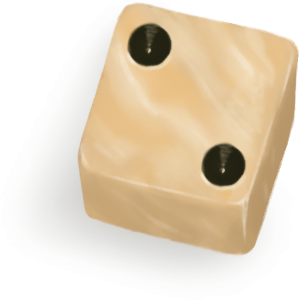
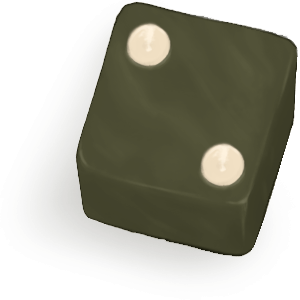
added comments to JS and added dice images for player 2

diff --git a/bg.js b/bg.js
@@ -1,4 +1,6 @@
+//The array that stores all checker positions:
 let board = [];
+//Used as a copy of the board so moves can be un-done:
 let newBoard = [];
 let score = [];
 let roll = {
@@ -21,6 +23,7 @@ window.onload = () => {
 	document.querySelector("#start").addEventListener("click", startGame);
 }
 
+//Sets up the board with checkers in the proper staring positions:
 initBoard = () => {
 	let tempBoard = [];
 
@@ -44,6 +47,7 @@ initBoard = () => {
 	return tempBoard;
 }
 
+//Sets up the event handler methods that make click and drag work:
 setupDragging = () => {
 	document.onmousemove = (e) => {
 		e.preventDefault();
@@ -177,6 +181,7 @@ setupDragging = () => {
 	}
 }
 
+//Renders the checkers to their respective points based on the board array:
 renderCheckers = (layout) => {
 	doMousedown = (e) => {
 		e.preventDefault();
@@ -263,6 +268,7 @@ renderCheckers = (layout) => {
 	}
 }
 
+//Removes the start button, intializes the board and renders the checkers, also sets turn to player 1 and resets the cube:
 startGame = () => {
 	let nav = document.querySelector("#buttonArea");
 	nav.removeChild(document.querySelector("#start"));
@@ -274,6 +280,7 @@ startGame = () => {
 	newTurn();
 }
 
+//Figures out who won and if its a gammon/backgammon, then changes scores accordingly:
 endGame = (player, pass) => {
 	if(!pass) {
 		if(player == 1) {
@@ -334,8 +341,10 @@ endGame = (player, pass) => {
 	startBut.addEventListener("click", startGame);
 }
 
+//Returns the number of the player opposite to the parameter:
 otherPlayer = (player) => player == 1 ? 2 : 1; 
 
+//Changes the turn variable and the buttons with event listeners accordingly:
 newTurn = () => {
 	turn == 1 ? turn = 2 : turn = 1;
 
@@ -358,6 +367,7 @@ newTurn = () => {
 	dubBut.addEventListener("click", proposeDouble);
 }
 
+//Renders take/pass buttons and assigns event listeners:
 proposeDouble = () => {
 	let other = (turn == 1) ? 2 : 1;
 	let curPlayer = document.querySelector(".currentPlayer");
@@ -385,6 +395,7 @@ proposeDouble = () => {
 	passBut.addEventListener("click", passDouble);
 }
 
+//Doubles the stakes variable, removes take/pass buttons and adds roll button with event listener:
 doubleStakes = () => {
 	let curPlayer = document.querySelector(".currentPlayer");
 	curPlayer.classList.remove("currentPlayer");
@@ -393,7 +404,6 @@ doubleStakes = () => {
 
 	let nav = document.querySelector("#buttonArea");
 	let rollBut = document.createElement("button");
-	let dubBut = document.createElement("button");
 
 	stakes *= 2;
 	while (nav.firstChild) {
@@ -406,6 +416,7 @@ doubleStakes = () => {
 	rollBut.addEventListener("click", rollDice);
 }
 
+//Removes all buttons and calls endGame:
 passDouble = () => {
 	let nav = document.querySelector("#buttonArea");
 	while (nav.firstChild) {
@@ -415,6 +426,7 @@ passDouble = () => {
 	endGame(turn, true);
 }
 
+//Adds finish turn button and, if a move was made, the undo button:
 endMove = (move) => {
 	allowDrag = false;
 	let nav = document.querySelector("#buttonArea");
@@ -440,6 +452,7 @@ endMove = (move) => {
 	finishBut.addEventListener("click", finishTurn);
 }
 
+//Updates the board with the moves taken, updates buttons:
 finishTurn = () => {
 	let nav = document.querySelector("#buttonArea");
 	let curPlayer = document.querySelector("#player" + turn);
@@ -455,6 +468,7 @@ finishTurn = () => {
 	newTurn();
 }
 
+//Resets the board to it's old state and then calls renderCheckers, removes button:
 undoMoves = () => {
 	let nav = document.querySelector("#buttonArea");
 	let diceImages = document.querySelectorAll(".die");
@@ -476,6 +490,7 @@ undoMoves = () => {
 	nav.removeChild(document.querySelector("#undo"));
 }
 
+//Generates two random numbers and updates the roll object:
 rollDice = () => {
 	let nav = document.querySelector("#buttonArea");
 	newBoard = cloneBoard(board);
@@ -525,6 +540,7 @@ rollDice = () => {
 	}
 }
 
+//This function was necessary to copy the board by value instead of reference:
 cloneBoard = (original) => {
 	let copy = [];
 	for (let i = 0; i < original.length; i++) {
@@ -533,6 +549,7 @@ cloneBoard = (original) => {
 	return copy;
 }
 
+//Highlights points on the board that are valid moves for the selected checker:
 highlightMoves = (moves) => {
 	let points = document.querySelectorAll(".point");
 	let scoreZones =  document.querySelectorAll(".playerZone");
@@ -593,6 +610,7 @@ highlightMoves = (moves) => {
 	}
 }
 
+//Clears the highlight class from all points:
 clearHighlights = () => {
 	let points = document.querySelectorAll(".point");
 	let scoreZones =  document.querySelectorAll(".playerZone");
@@ -605,6 +623,7 @@ clearHighlights = () => {
 	}
 }
 
+//Removes all checker elements from all points:
 clearBoard = () => {
 	let points = document.querySelectorAll(".point");
 	let bar = document.querySelector("#bar");
@@ -628,6 +647,7 @@ clearBoard = () => {
 	}
 }
 
+//Creates a new checker node with appropriate attributes:
 newChecker = (player) => {
 	let checker = document.createElement("img");
 	checker.src = "images/checkers/" + player + ".png";
@@ -637,6 +657,7 @@ newChecker = (player) => {
 	return checker;
 }
 
+//Returns true if it's legal for the player to bear off checkers:
 canBearOff = (player) => {
 	let bearOff = true;
 
@@ -664,6 +685,7 @@ canBearOff = (player) => {
 	return bearOff;
 }
 
+//Returns false if there are no leagal moves for a player based on their roll:
 canMove = (player) => {
 	let result = false;
 
@@ -703,6 +725,7 @@ canMove = (player) => {
 	return result;
 }
 
+//Returns an array of points that can be moved to based on the active checker location and roll:
 availableMoves = (player, checkerLoc) => {
 	let moves = [];
 	let bearOff = canBearOff(player);
@@ -756,6 +779,7 @@ availableMoves = (player, checkerLoc) => {
 	return moves;
 }
 
+//Returns the location of the checker furthest from the scoring zone of the player:
 furthestChecker = (player) => {
 	if (player == 1) {
 		for(let i = 24; i > 0; i--) {
@@ -773,6 +797,7 @@ furthestChecker = (player) => {
 	}
 }
 
+//Returns true if the point is unoccupied, occupied by friendly checkers or occupied by a single enemy checker:
 validMove = (player, point) => {
 	return (board[point].player == player || board[point].player == 0) ? true : (board[point].checkers == 1) ? true : false;
 }
